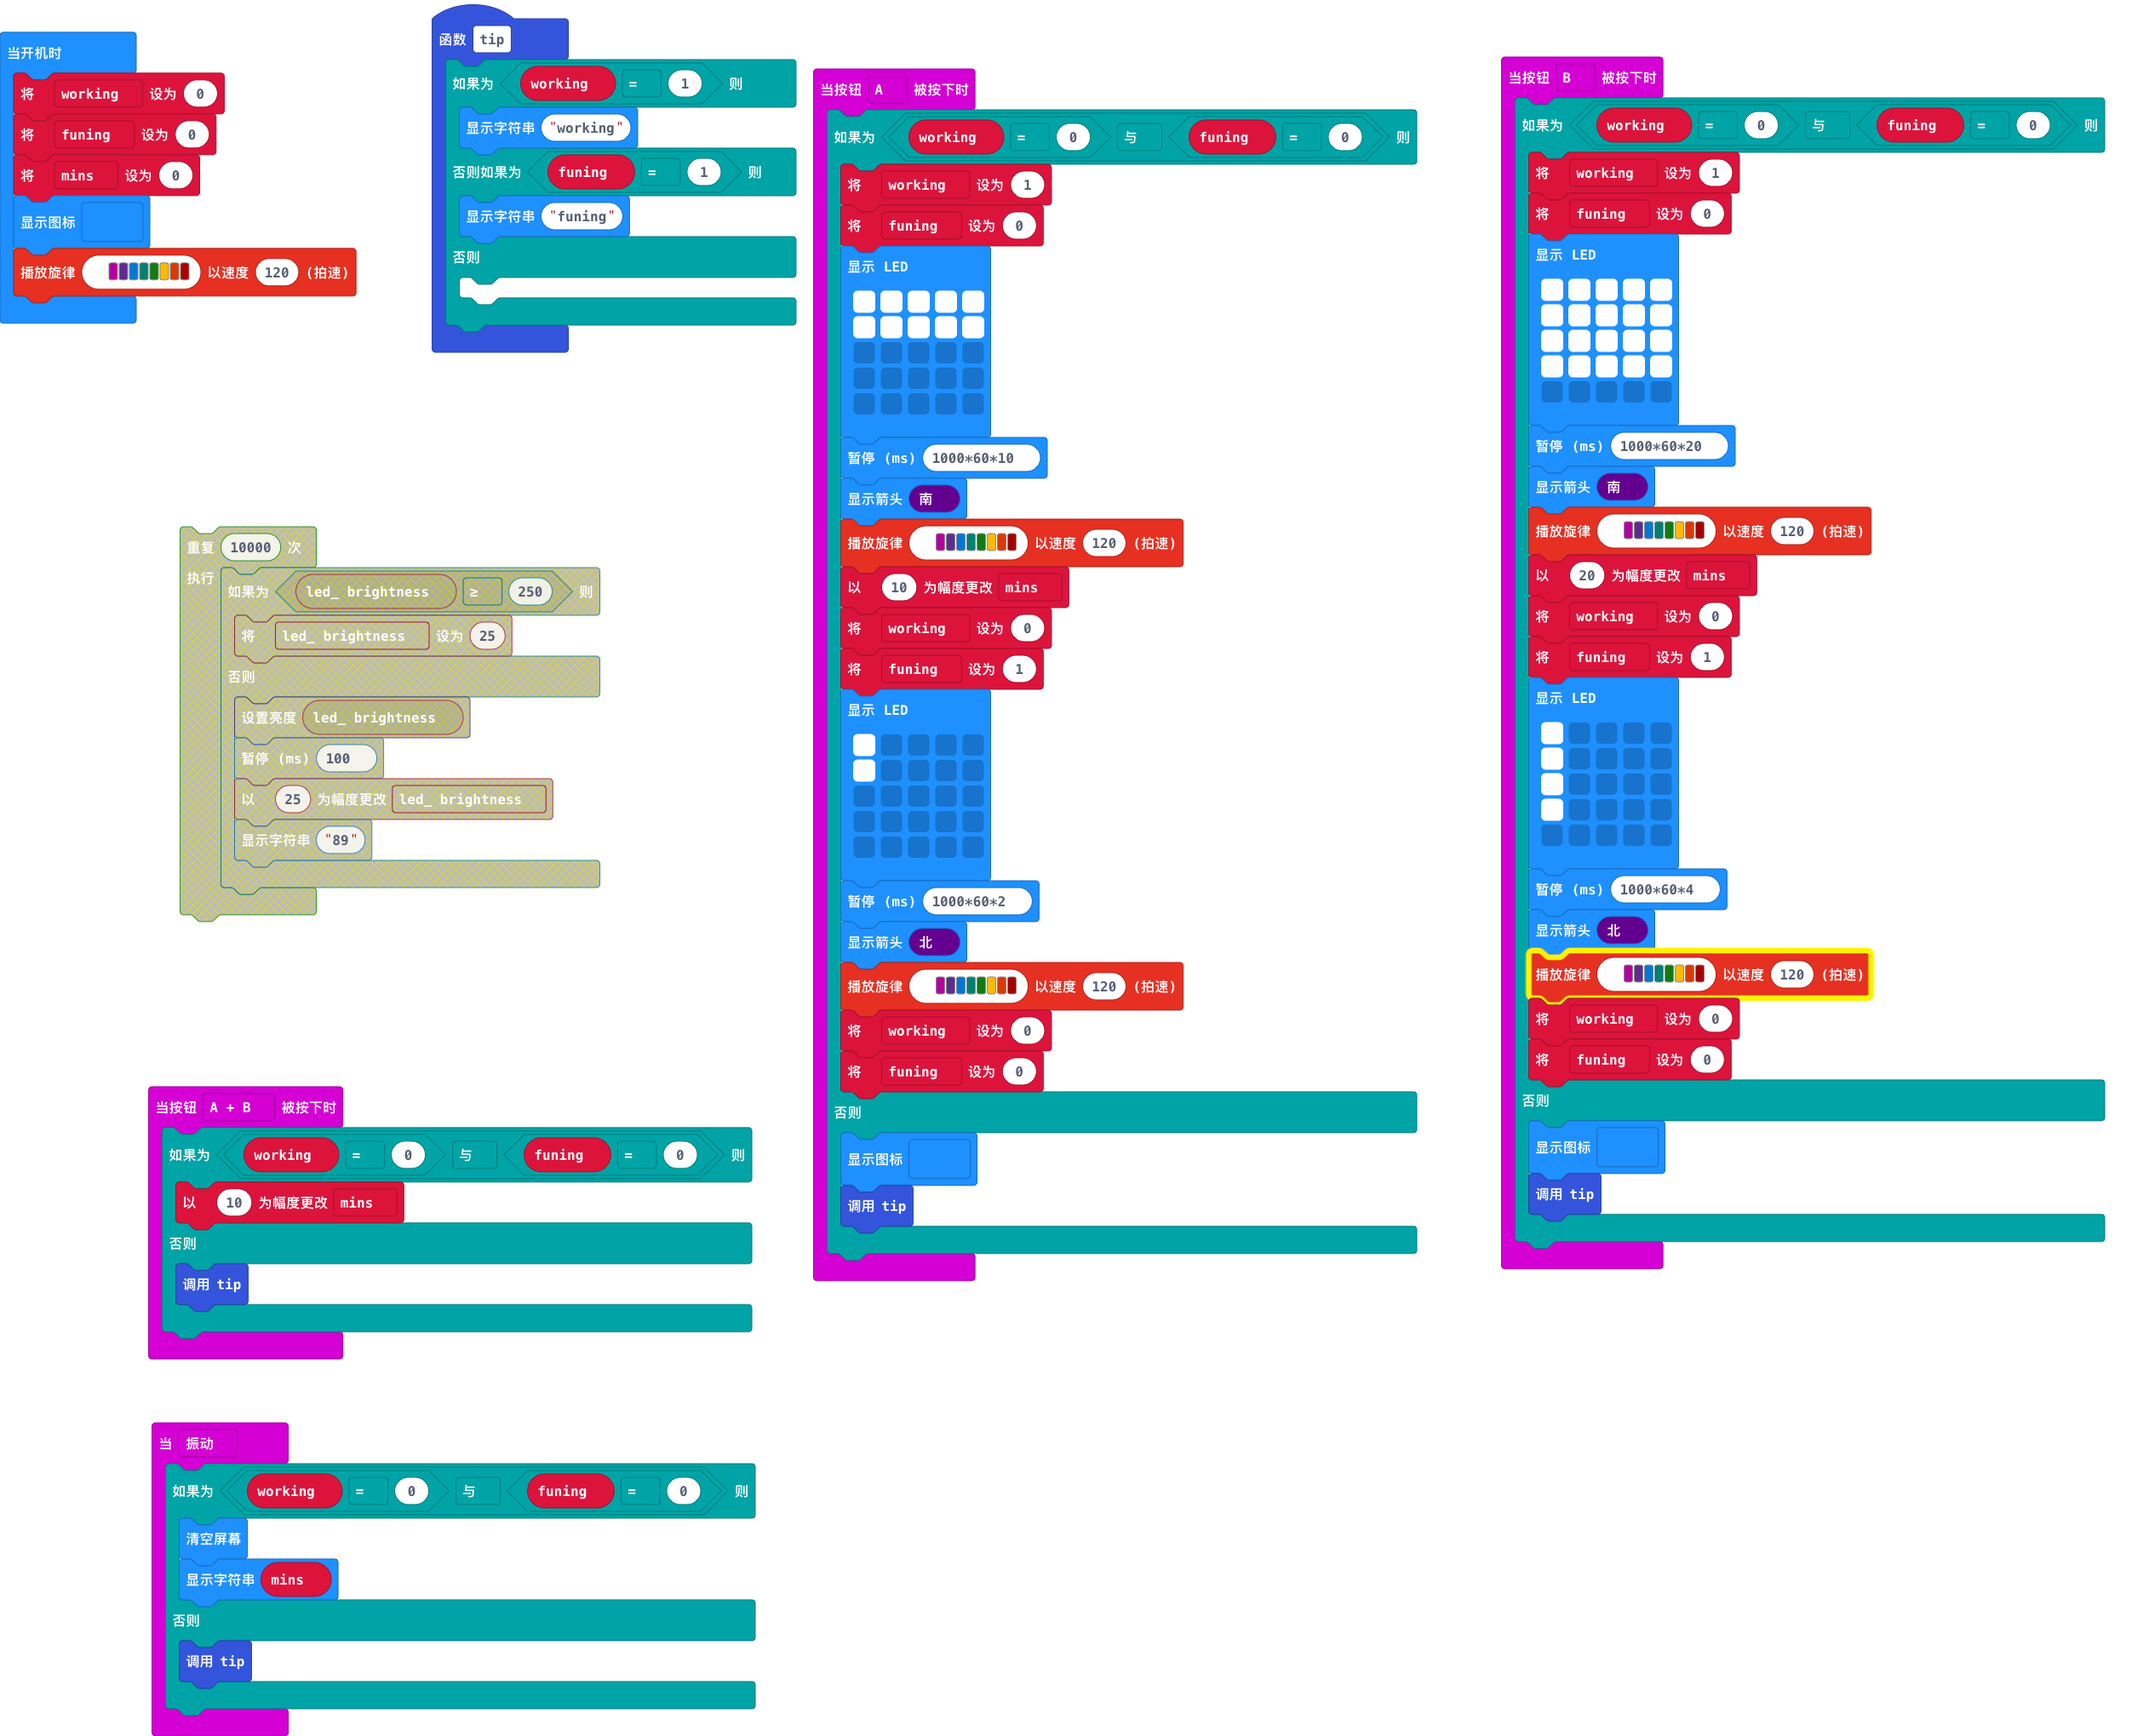
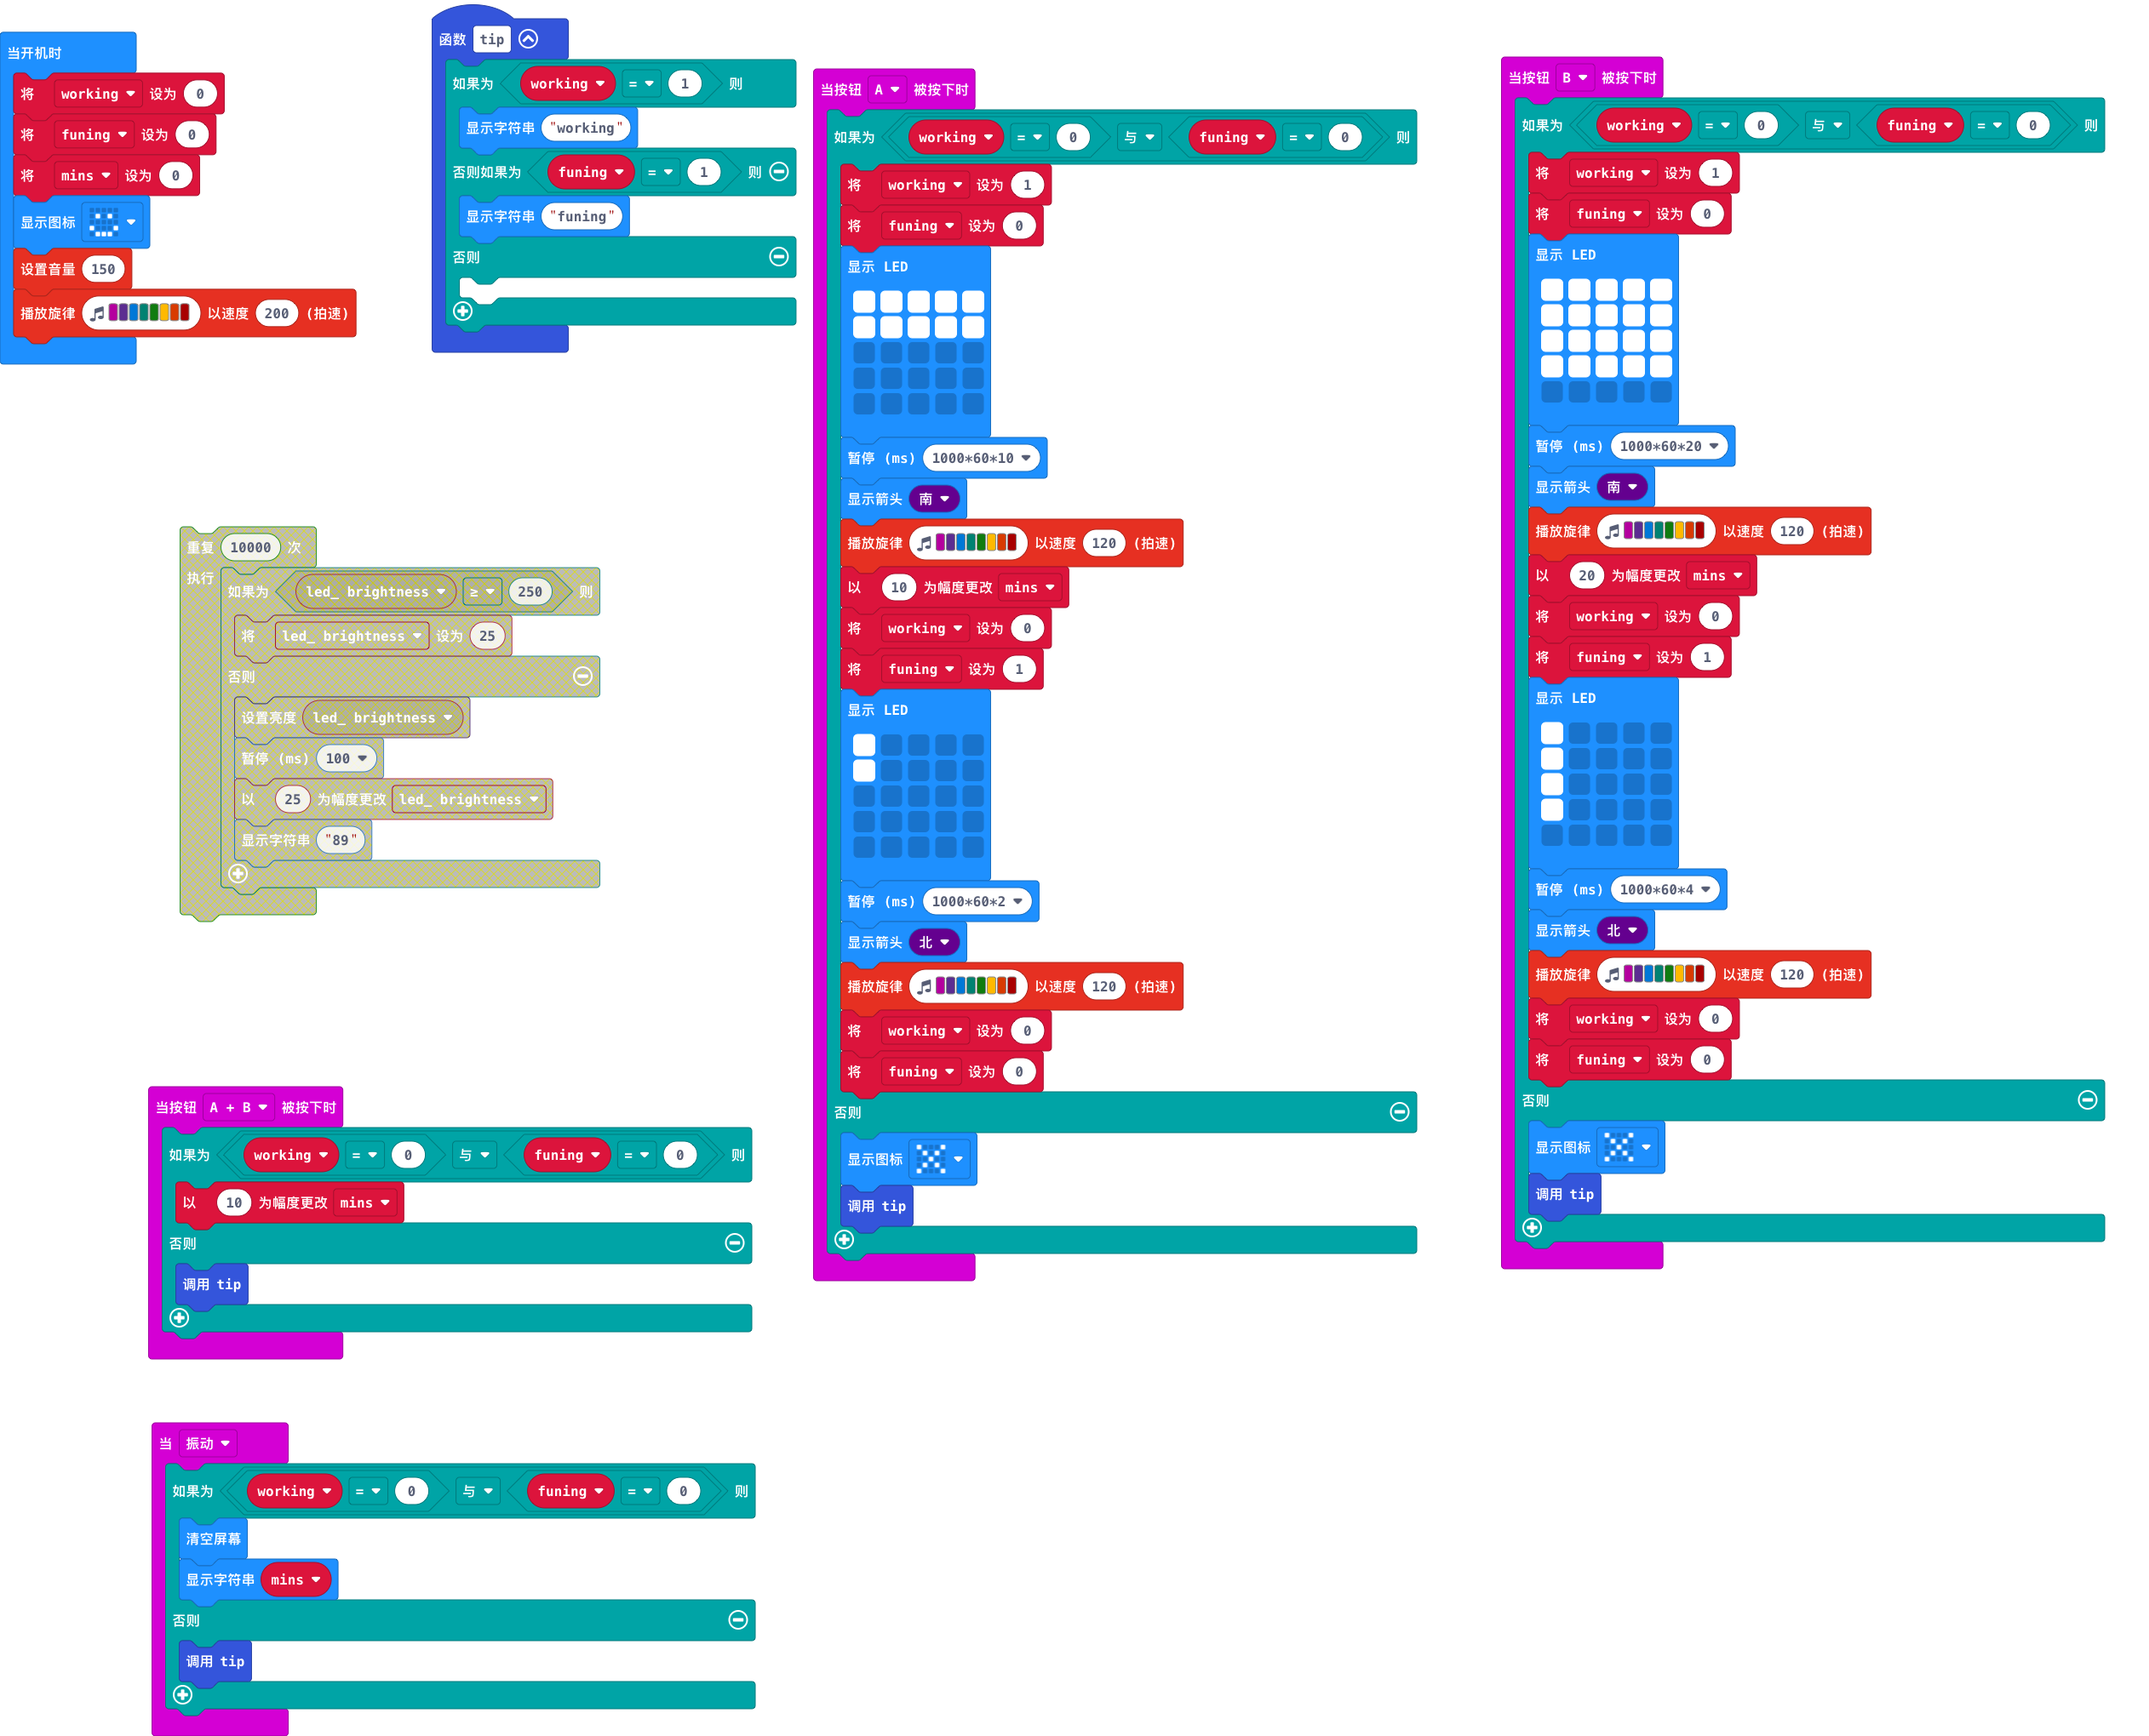
s

diff --git a/main.ts b/main.ts
@@ -97,4 +97,5 @@ working = 0
 funing = 0
 mins = 0
 basic.showIcon(IconNames.Happy)
-music.playMelody("C D E F G A B C5 ", 120)
+music.setVolume(150)
+music.playMelody("C D E F G A B C5 ", 200)
